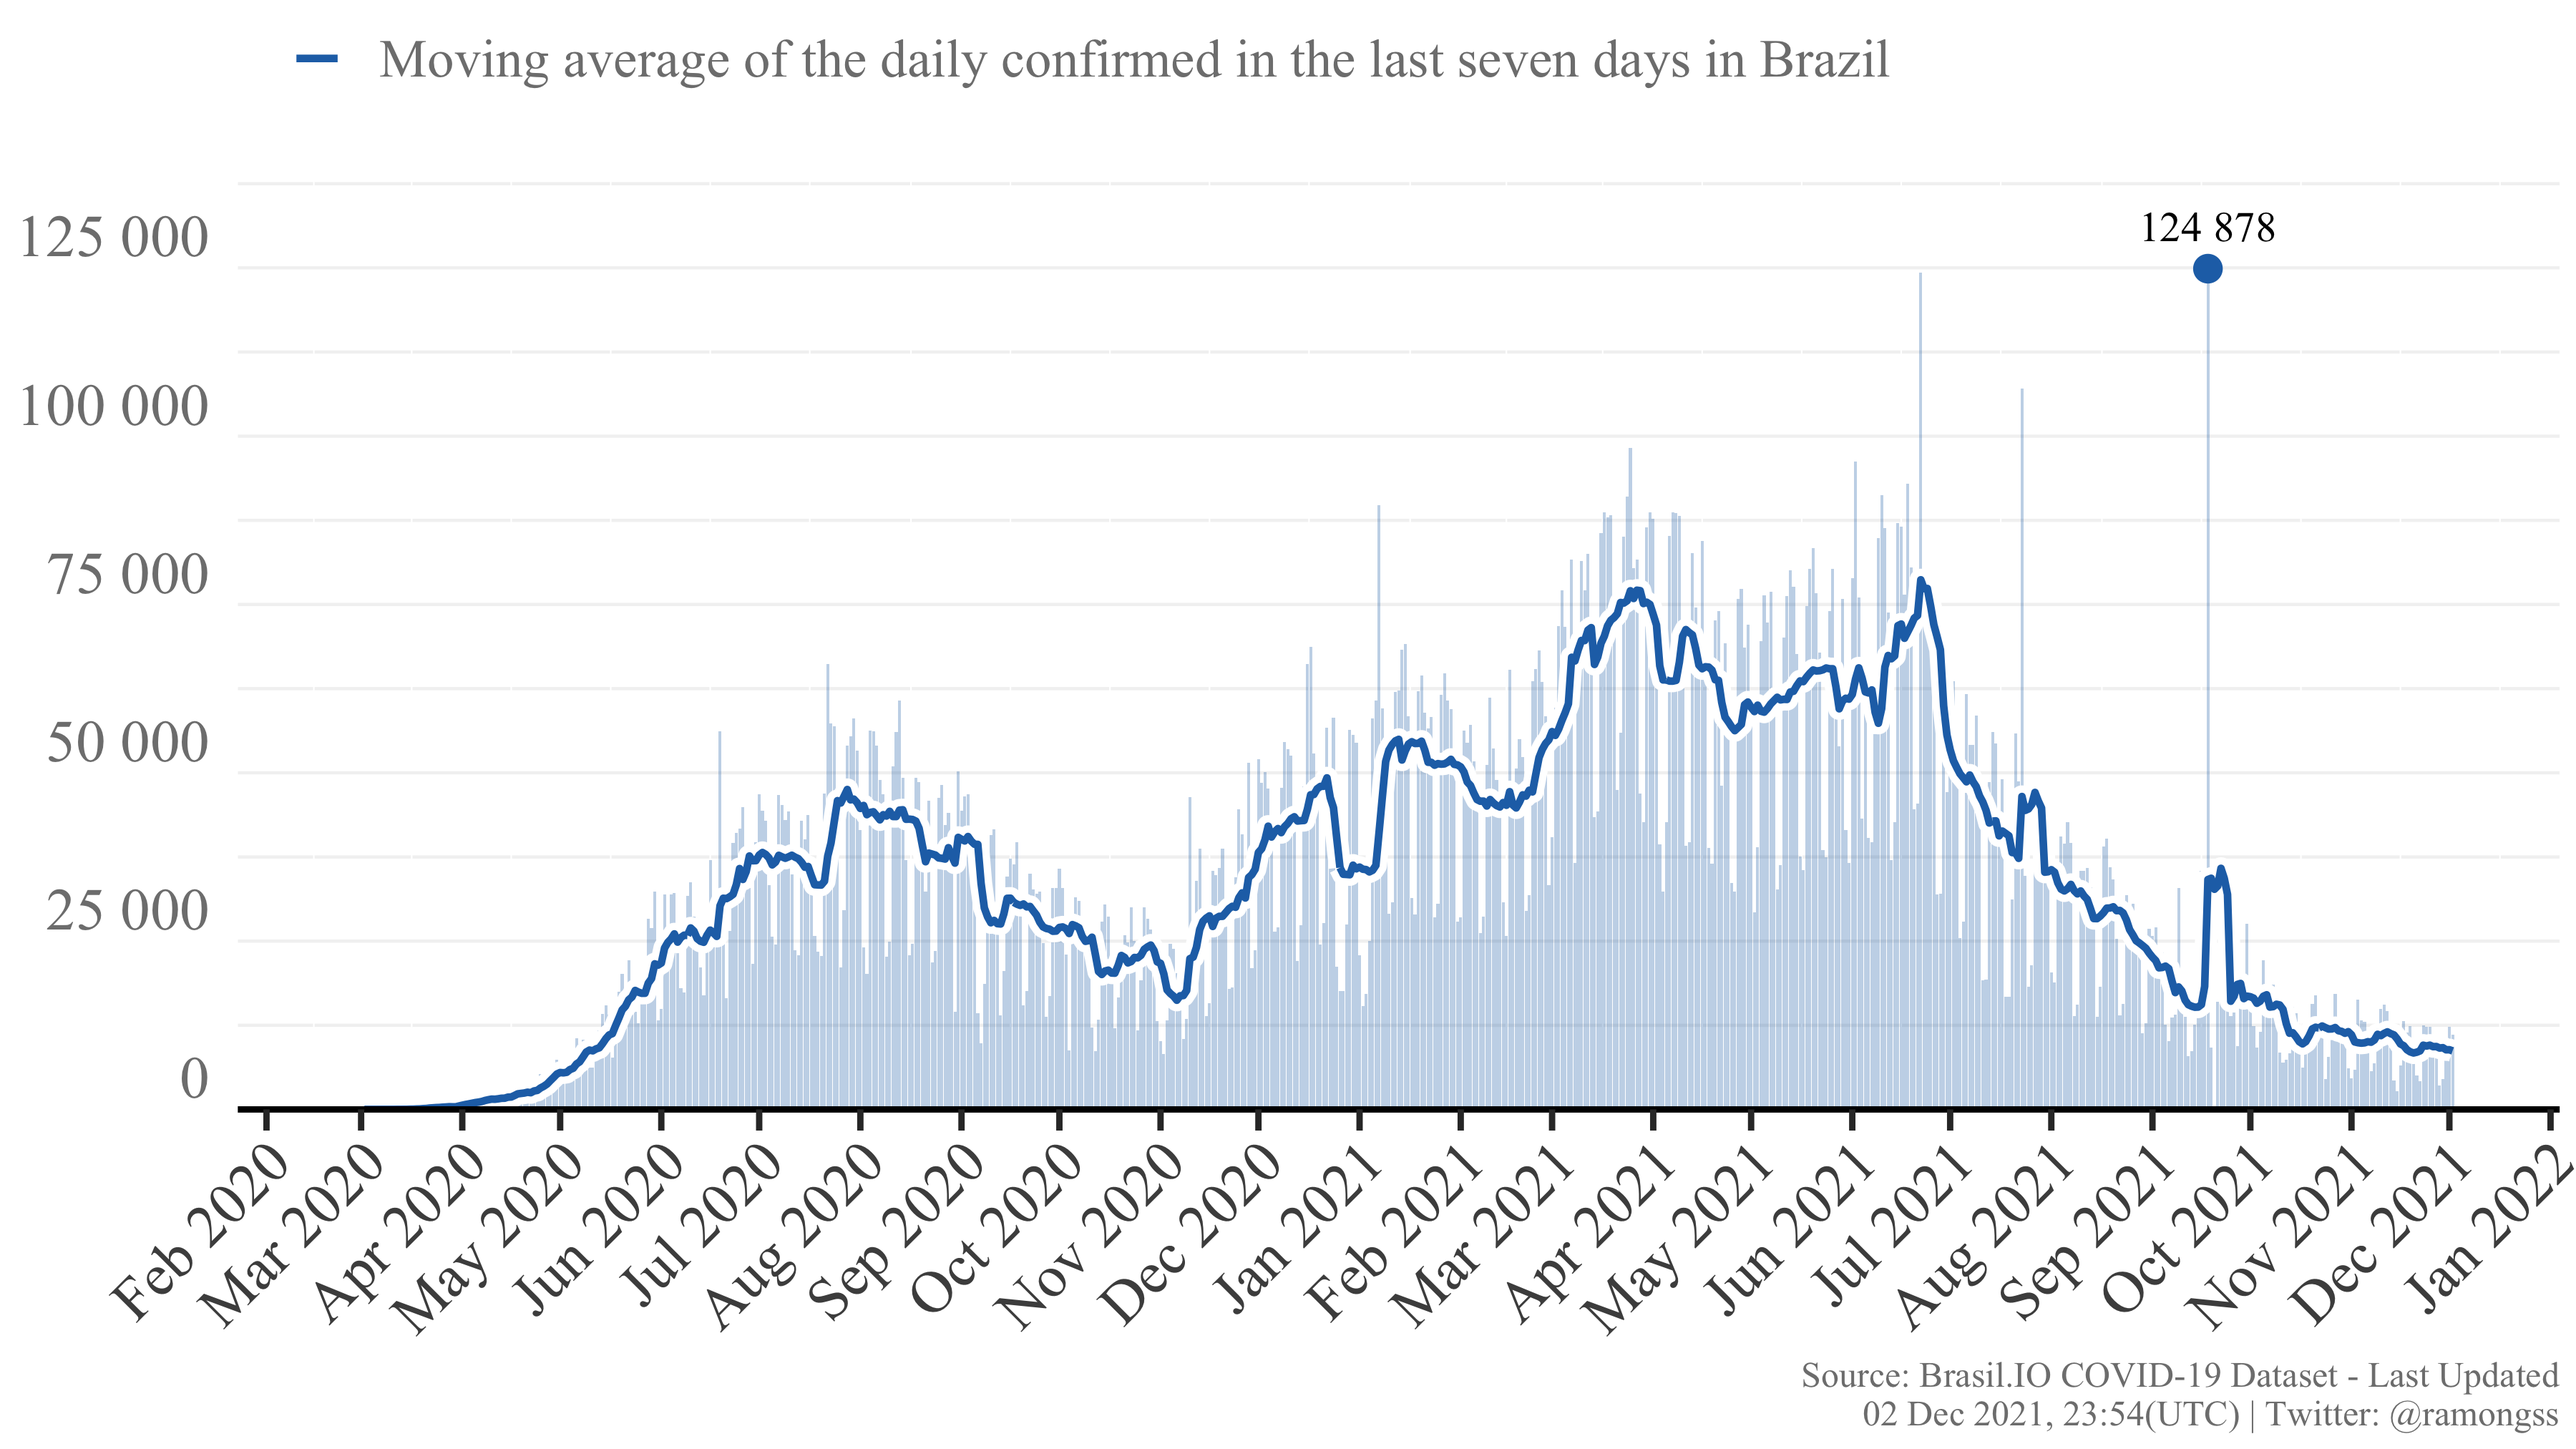
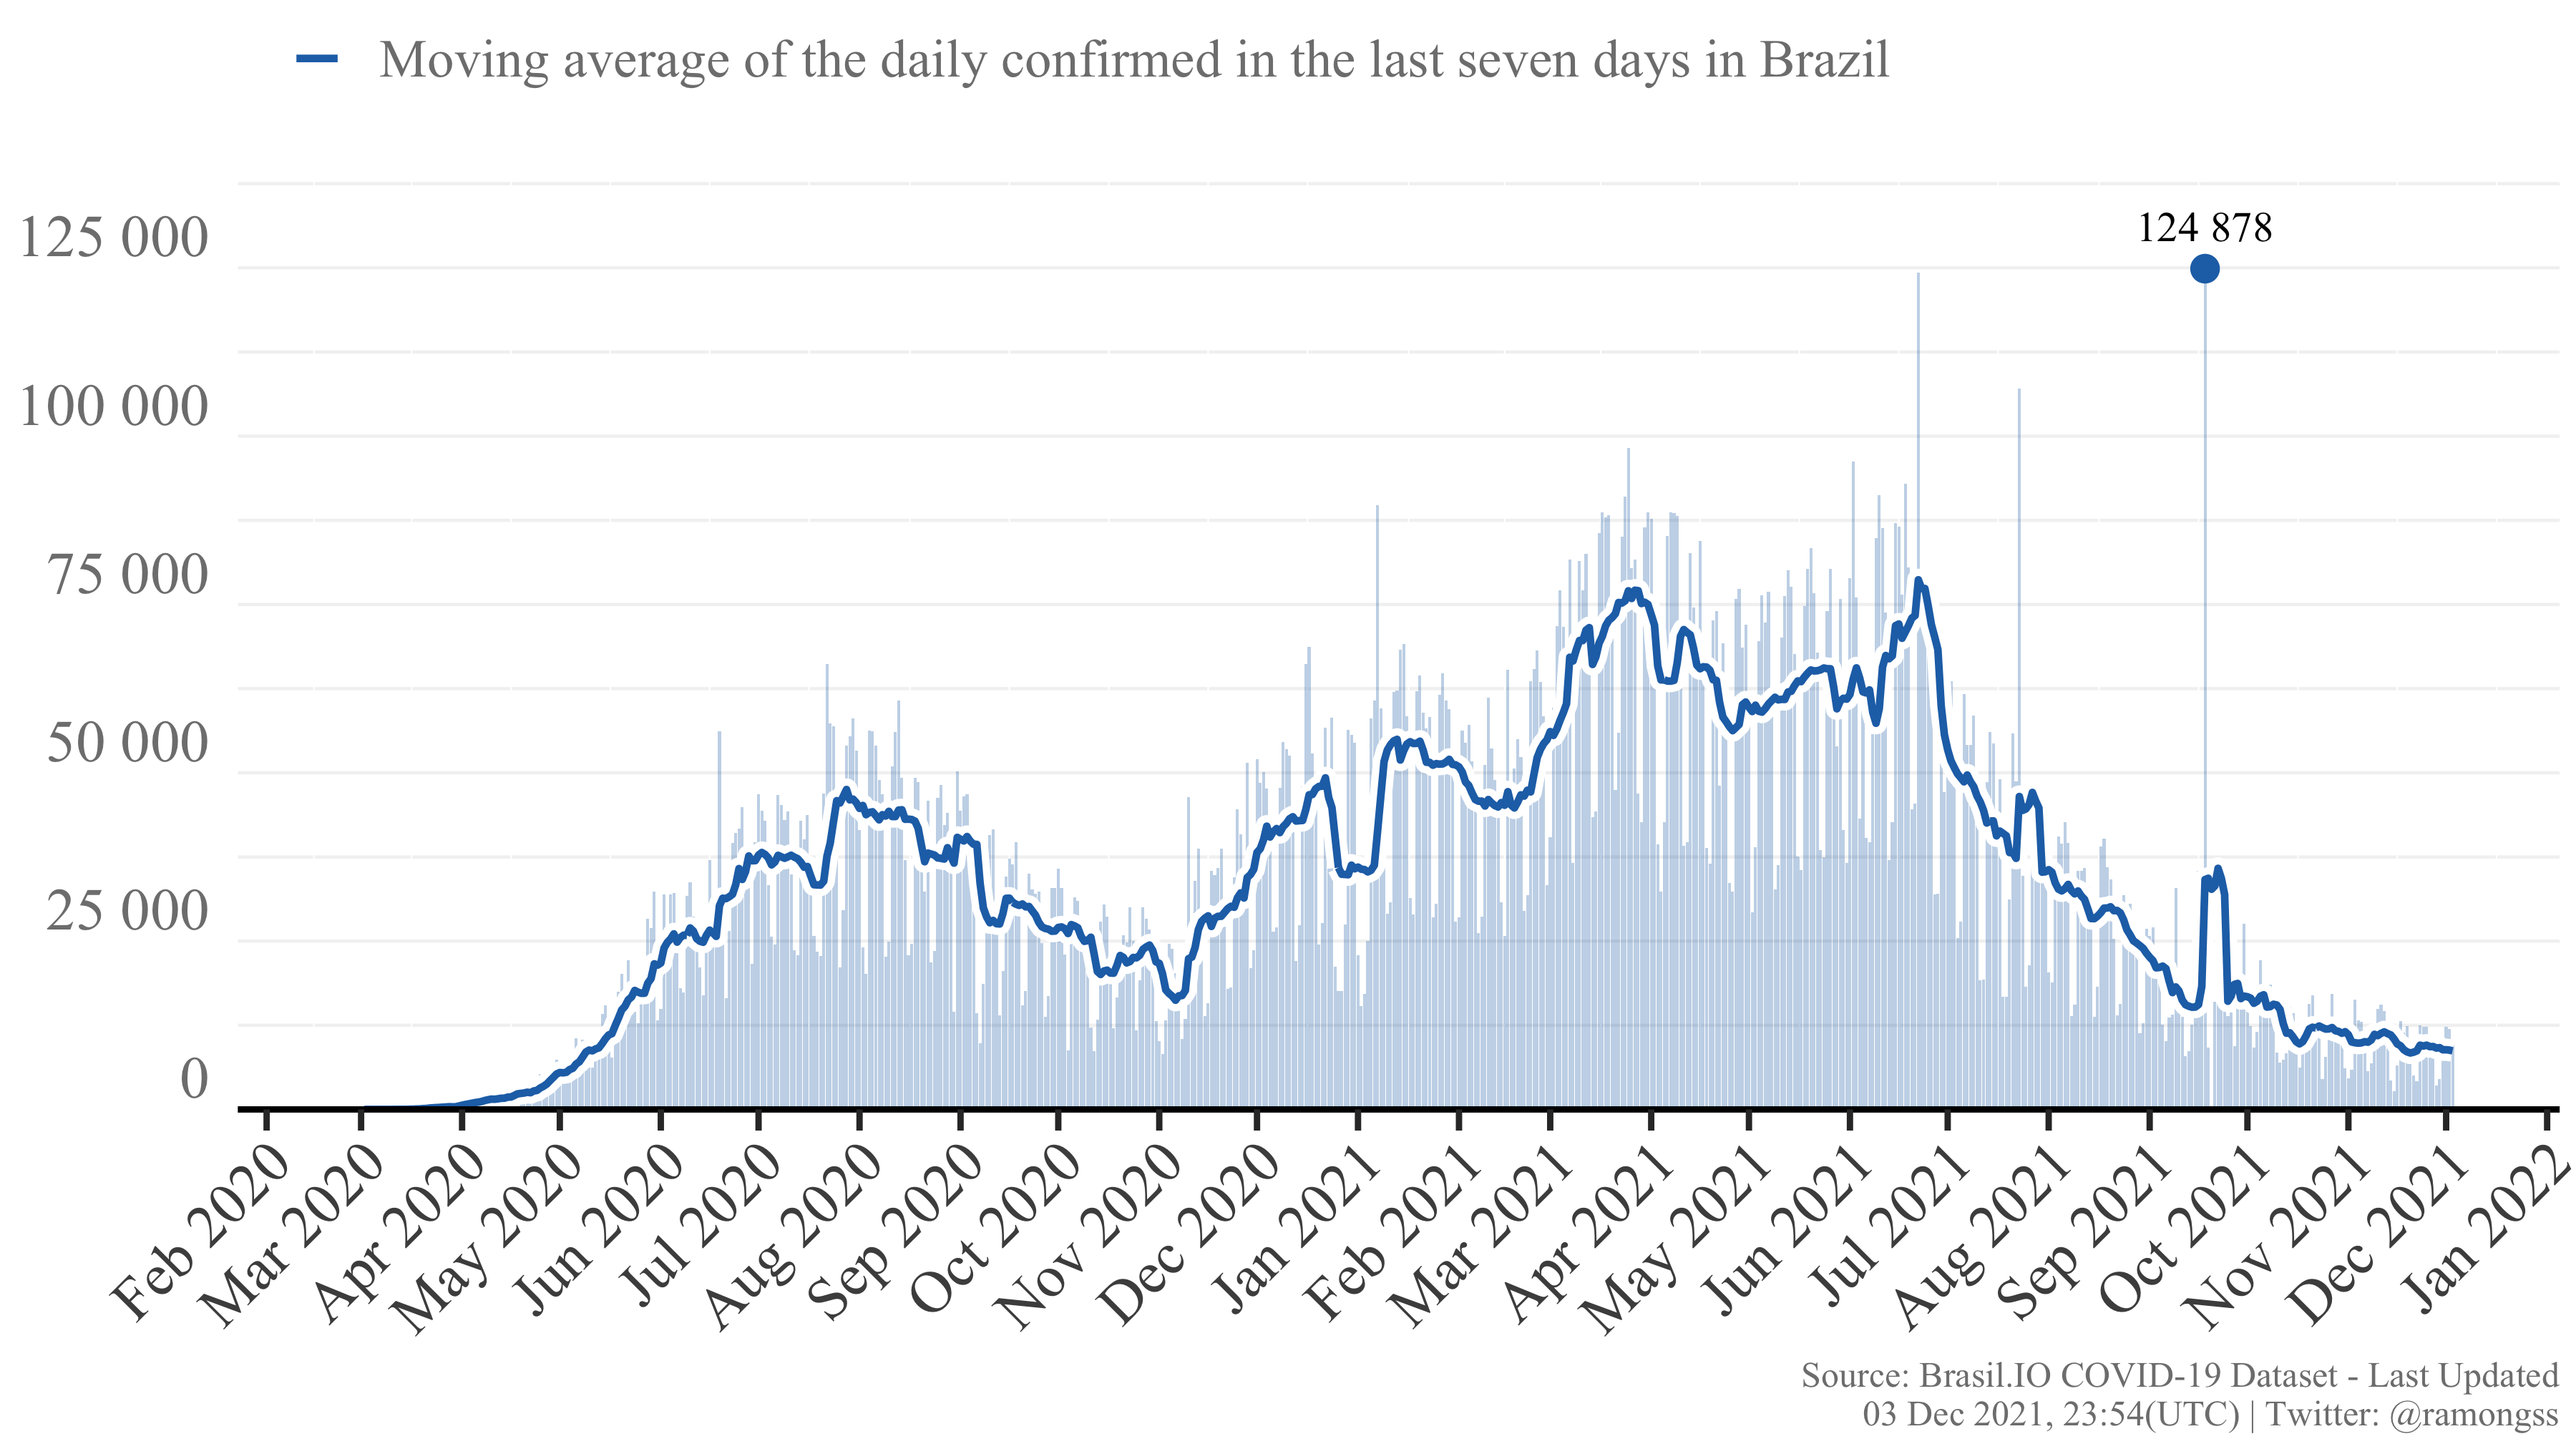
Re-build README.Rmd

diff --git a/README.md b/README.md
@@ -27,8 +27,8 @@ download_brasilio_table <- function(dataset = "covid19", table_name){
 
 ## COVID-19 Confirmed cases
 
-Currently, Brazil has a total of **22,123,515** confirmed cases at **02
-Dec, 2021**, with **11,091** new confirmed cases. The daily maximum
+Currently, Brazil has a total of **22,134,419** confirmed cases at **03
+Dec, 2021**, with **10,085** new confirmed cases. The daily maximum
 incidence was **124,878** confirmed cases at **18 Sep, 2021**. Here
 follows the Figure showing the confirmed case incidence as the bars, and
 the line as the moving average of the last 7 days.
@@ -37,8 +37,8 @@ the line as the moving average of the last 7 days.
 
 ## COVID-19 Deaths
 
-Currently, Brazil has a total of **615,446** deaths at **02 Dec, 2021**,
-with **193** new deaths. The daily maximum deaths incidence was
+Currently, Brazil has a total of **615,677** deaths at **03 Dec, 2021**,
+with **228** new deaths. The daily maximum deaths incidence was
 **4,148** deaths at **08 Apr, 2021**. Here follows the Figure showing
 the deaths incidence as the bars, and the line as the moving average of
 the last 7 days.
@@ -49,4 +49,4 @@ the last 7 days.
 
 This page is daily updated automatically using Github Actions.
 
-*Last update: 02 Dec 2021, 23:54 (UTC).*
+*Last update: 03 Dec 2021, 23:54 (UTC).*
